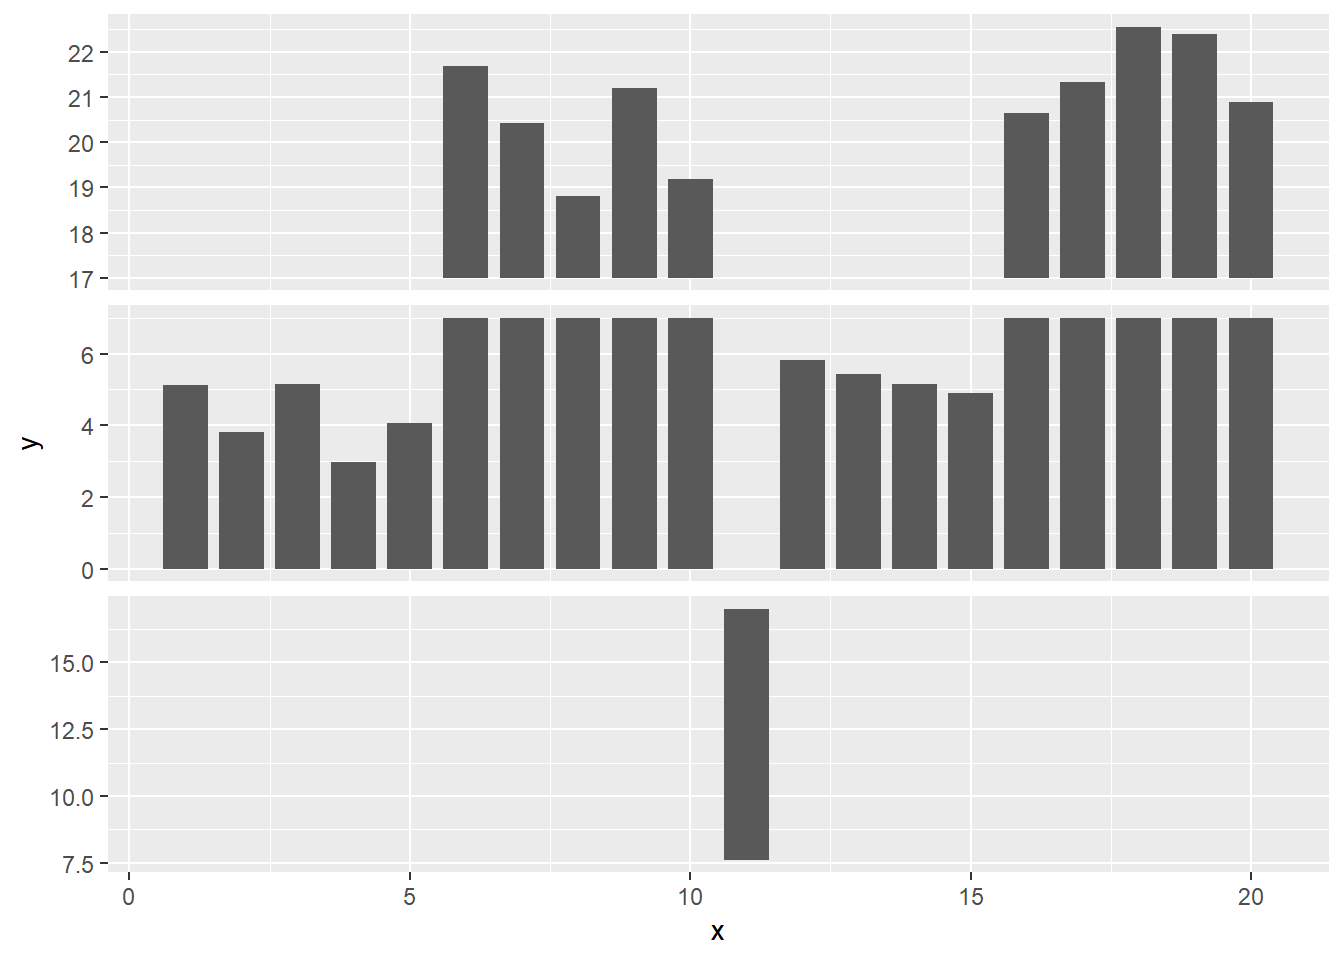
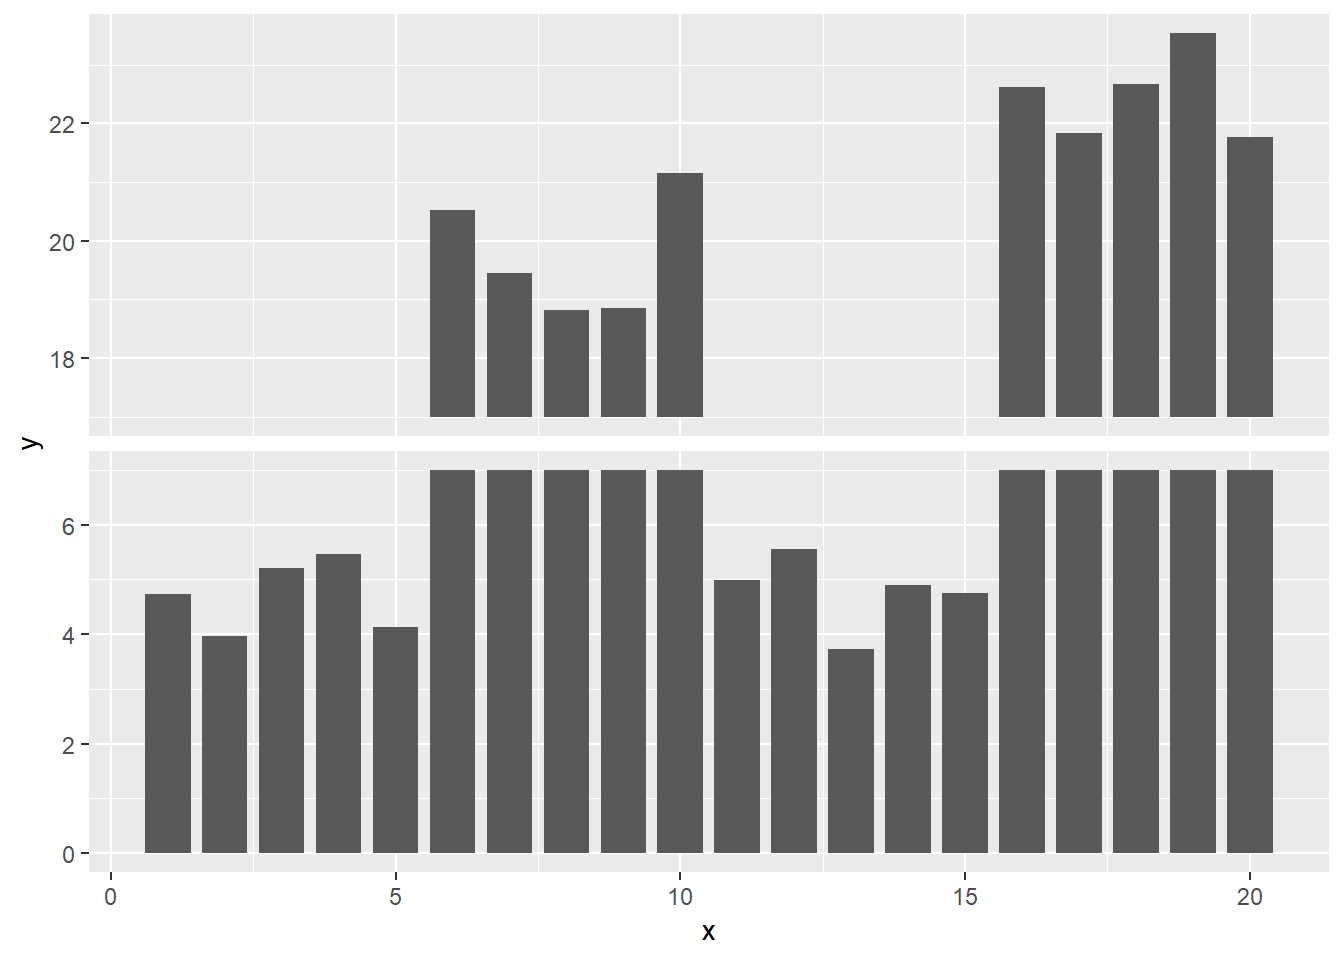
update

diff --git a/docs/chapter-facet.html b/docs/chapter-facet.html
@@ -199,7 +199,8 @@ code span.wa { color: #60a0b0; font-weight: bold; font-style: italic; } /* Warni
 </div>
 <div id="section-3" class="section level2">
 <h2><span class="header-section-number">2.4</span> 坐标轴截断</h2>
-<pre class="sourceCode r"><code class="sourceCode r">d &lt;-<span class="st"> </span><span class="kw">data.frame</span>(
+<pre class="sourceCode r"><code class="sourceCode r"><span class="kw">set.seed</span>(<span class="dv">2019-01-19</span>)
+d &lt;-<span class="st"> </span><span class="kw">data.frame</span>(
     <span class="dt">x =</span> <span class="dv">1</span><span class="op">:</span><span class="dv">20</span>, 
     <span class="dt">y =</span> <span class="kw">c</span>(<span class="kw">rnorm</span>(<span class="dv">5</span>) <span class="op">+</span><span class="st"> </span><span class="dv">4</span>, <span class="kw">rnorm</span>(<span class="dv">5</span>) <span class="op">+</span><span class="st"> </span><span class="dv">20</span>, <span class="kw">rnorm</span>(<span class="dv">5</span>) <span class="op">+</span><span class="st"> </span><span class="dv">5</span>, <span class="kw">rnorm</span>(<span class="dv">5</span>) <span class="op">+</span><span class="st"> </span><span class="dv">22</span>)
 )
@@ -217,7 +218,7 @@ d &lt;-<span class="st"> </span><span class="kw">filter</span>(d, .type <span cl
 <span class="st">    </span><span class="kw">mutate</span>(<span class="dt">.type =</span> <span class="st">&quot;small&quot;</span>, <span class="dt">y =</span> breaks[<span class="dv">1</span>]) <span class="op">%&gt;%</span><span class="st"> </span>
 <span class="st">    </span><span class="kw">bind_rows</span>(d)
 
-mymin =<span class="st"> </span><span class="cf">function</span>(y) <span class="kw">ifelse</span>(y <span class="op">&lt;=</span><span class="st"> </span><span class="dv">7</span>, <span class="dv">0</span>, <span class="dv">17</span>)               
+mymin =<span class="st"> </span><span class="cf">function</span>(y) <span class="kw">ifelse</span>(y <span class="op">&lt;=</span><span class="st"> </span>breaks[<span class="dv">1</span>], <span class="dv">0</span>, breaks[<span class="dv">2</span>])               
 p &lt;-<span class="st"> </span><span class="kw">ggplot</span>(d, <span class="kw">aes</span>(x, y)) <span class="op">+</span><span class="st"> </span>
 <span class="st">    </span><span class="kw">geom_rect</span>(<span class="kw">aes</span>(<span class="dt">xmin =</span> x <span class="op">-</span><span class="st"> </span><span class="fl">.4</span>, <span class="dt">xmax =</span> x <span class="op">+</span><span class="st"> </span><span class="fl">.4</span>, <span class="dt">ymin =</span> <span class="kw">mymin</span>(y), <span class="dt">ymax =</span> y)) <span class="op">+</span>
 <span class="st">    </span><span class="kw">facet_grid</span>(.type <span class="op">~</span><span class="st"> </span>., <span class="dt">scales =</span> <span class="st">&quot;free&quot;</span>) <span class="op">+</span><span class="st"> </span>
